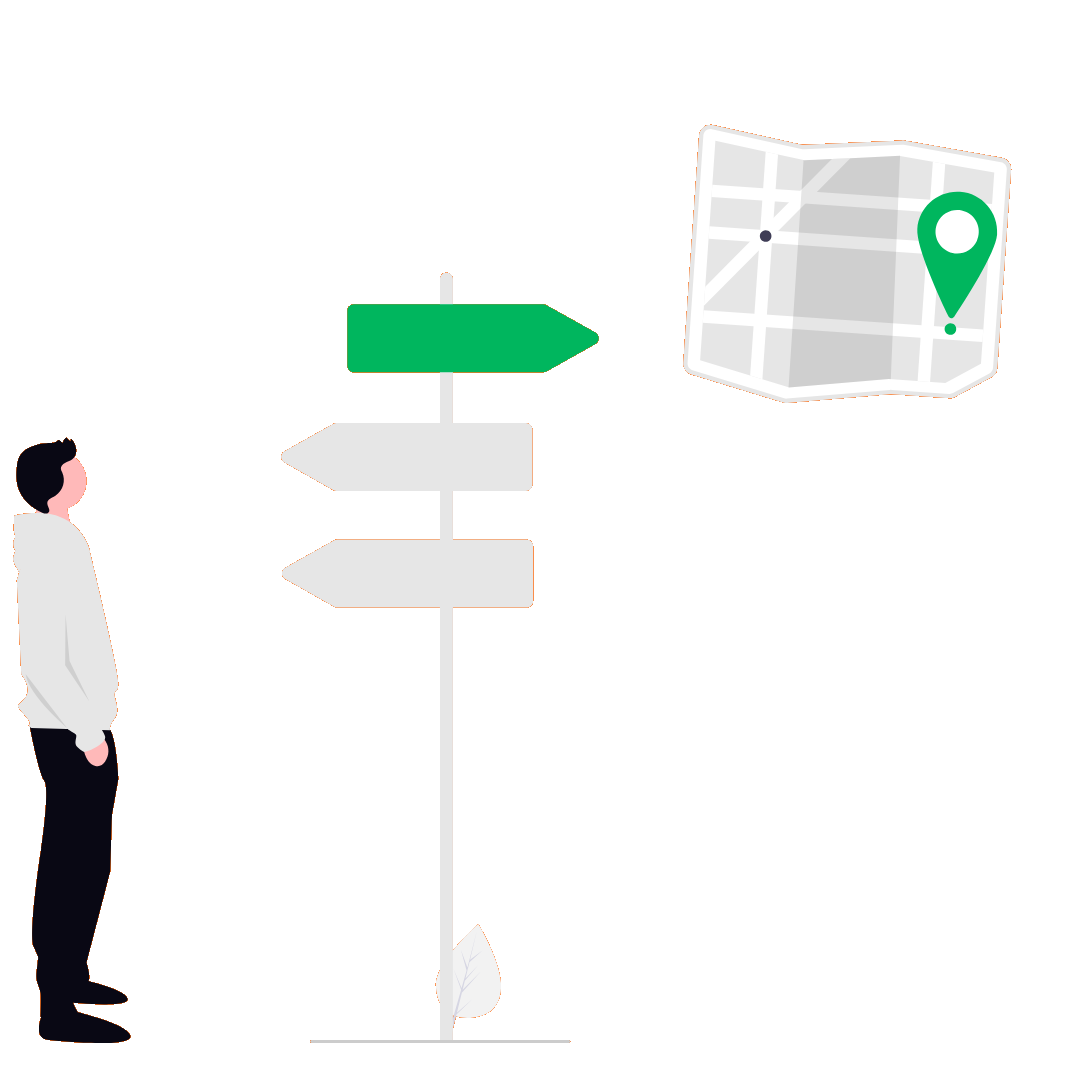
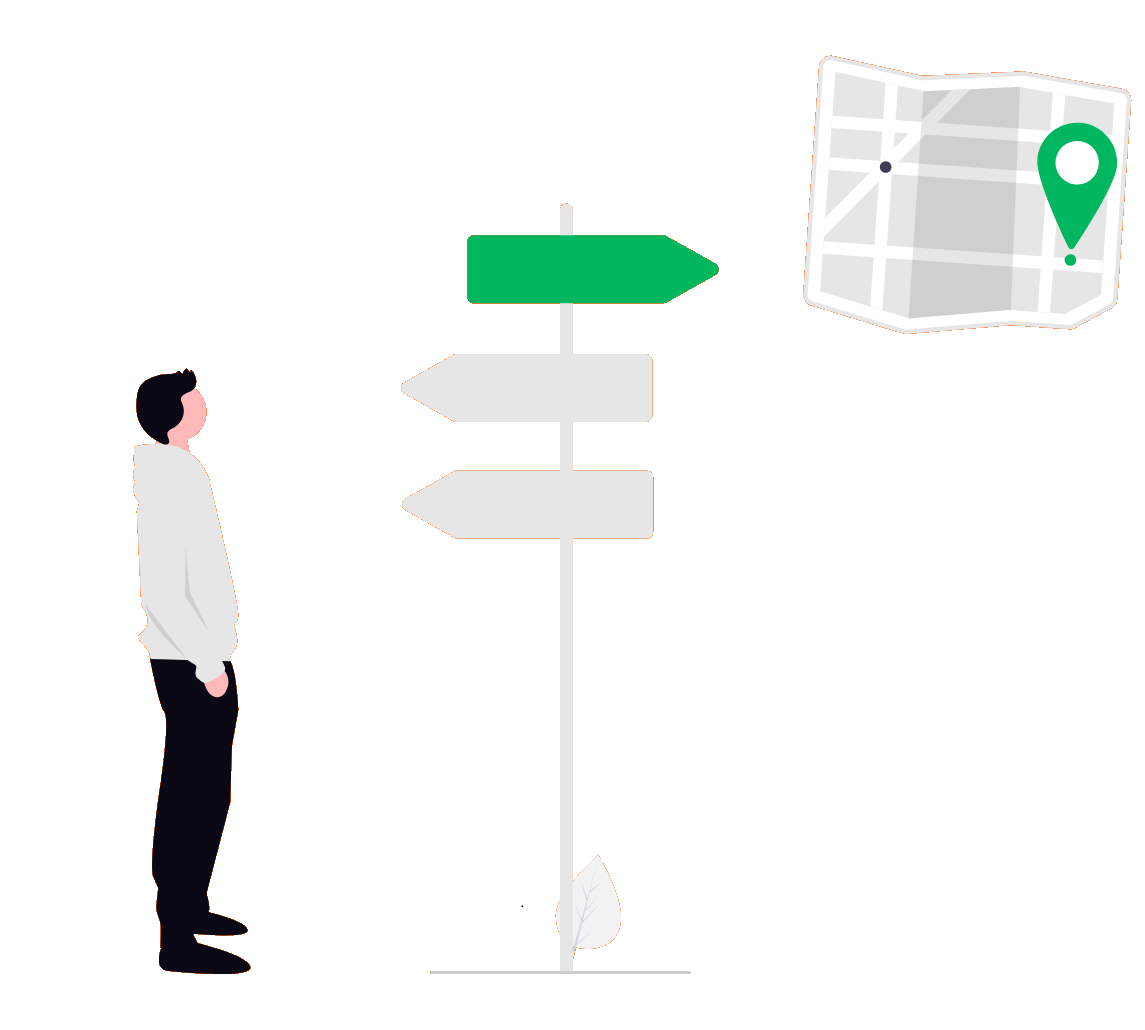
mari changes 16.12

Changed region(s): [[0.2444, 0.0621, 1.0, 0.9631], [0.0, 0.3417, 0.2139, 0.9631]]

diff --git a/src/pages/JuniorDetails.tsx b/src/pages/JuniorDetails.tsx
@@ -55,8 +55,8 @@ const sectionConfigs: SectionConfig[] = [
       "Write basic communication (emails, chats, tickets).",
     ],
     backgroundClass: "bg-green-500",
-    titleClass: "text-white",
-    listClass: "text-white",
+    titleClass: "text-black",
+    listClass: "text-black",
     borderClass: "border-b md:border-b-0 md:border-r border-slate-200",
     imageSrc: englishImage,
     imageClass: "top-0 right-0 h-full w-1/2 object-contain",
@@ -87,8 +87,9 @@ const sectionConfigs: SectionConfig[] = [
     listClass: "text-blue-500",
     borderClass: "border-t md:border-t-0 md:border-r border-slate-200",
     imageSrc: experienceImage,
-    imageClass: "top-0 left-0 h-full w-1/2 object-contain",
+    imageClass: "top-0 left-10 h-full w-1/2 object-contain",
     contentClass: "ml-auto w-1/2",
+    itemsWrapperClass: "justify-center mt-0",
   },
   {
     title: "TIPS TO GET THERE",
@@ -103,7 +104,8 @@ const sectionConfigs: SectionConfig[] = [
     borderClass: "border-t border-slate-200",
     imageSrc: tipsImage,
     imageClass: "top-0 left-0 h-full w-1/2 object-contain",
-    contentClass: "ml-auto w-1/2",
+    contentClass: "ml-auto w-1/2 pl-10",
+    itemsWrapperClass: "justify-center mt-0",
   },
 ];
 
@@ -134,10 +136,10 @@ const HeroSection = ({ backgroundImage, content }: HeroSectionProps) => (
     <div className="flex flex-col lg:flex-row items-center lg:items-start justify-between gap-10 relative z-10 w-full text-white drop-shadow">
       <div className="max-w-xl">
         <div className="flex flex-wrap items-baseline gap-3">
-          <p className="text-3xl lg:text-4xl font-light">{content.subtitle}</p>
+          <p className="text-3xl lg:text-4xl font-bold">{content.subtitle}</p>
           <h1 className="text-7xl lg:text-8xl font-black text-emerald-200">{content.highlight}</h1>
         </div>
-        <p className="mt-3 text-3xl lg:text-4xl font-semibold">{content.tagline}</p>
+        <p className="mt-3 text-3xl lg:text-4xl font-bold">{content.tagline}</p>
       </div>
     </div>
   </section>

diff --git a/src/components/sectionCard.component.tsx b/src/components/sectionCard.component.tsx
@@ -8,6 +8,7 @@ export type SectionConfig = {
   imageSrc: string;
   imageClass?: string;
   contentClass?: string;
+  itemsWrapperClass?: string;
 };
 
 type SectionCardProps = {
@@ -29,6 +30,7 @@ const SectionCard = ({ config, cardBaseClass }: SectionCardProps) => {
           items={config.items}
           listClass={config.listClass}
           contentClass={config.contentClass}
+          wrapperClass={config.itemsWrapperClass}
         />
       </div>
     </section>
@@ -72,18 +74,21 @@ type CardItemsProps = {
   items: string[];
   listClass?: string;
   contentClass?: string;
+  wrapperClass?: string;
 };
 
-const CardItems = ({ items, listClass, contentClass }: CardItemsProps) => (
-  <div className={`mt-8 ${contentClass ?? ""}`}>
-    <ul className={`space-y-5 text-2xl lg:text-3xl leading-relaxed list-none ${listClass ?? ""}`}>
-      {items.map((item, index) => (
-        <li key={index} className="flex gap-3">
-          <span className="text-3xl leading-tight">•</span>
-          <span>{item}</span>
-        </li>
-      ))}
-    </ul>
+const CardItems = ({ items, listClass, contentClass, wrapperClass }: CardItemsProps) => (
+  <div className={`mt-8 flex-1 flex flex-col ${wrapperClass ?? ""}`}>
+    <div className={`${contentClass ?? ""}`}>
+      <ul className={`space-y-5 text-2xl lg:text-3xl leading-relaxed list-none font-bold ${listClass ?? ""}`}>
+        {items.map((item, index) => (
+          <li key={index} className="flex gap-3">
+            <span className="text-3xl leading-tight">•</span>
+            <span>{item}</span>
+          </li>
+        ))}
+      </ul>
+    </div>
   </div>
 );
 

diff --git a/src/components/stepBubble.component.tsx b/src/components/stepBubble.component.tsx
@@ -9,6 +9,7 @@ export default function StepBubble({ step, reverse = false }: StepBubbleProps) {
   const wrapperProps = clickable ? { href: detailHref } : {}
   const isReverse = Boolean(reverse)
   const dotDirection = isReverse ? "right" : "left"
+  const textAlignment = isReverse ? "text-left" : "text-right"
   return (
     <Wrapper
       {...wrapperProps}
@@ -16,7 +17,7 @@ export default function StepBubble({ step, reverse = false }: StepBubbleProps) {
       aria-label={clickable ? `View details for ${step.level}` : undefined}
     >
       <div className={`relative flex items-center mb-16 gap-36 ${isReverse ? "flex-row-reverse" : "flex-row"}`}>
-        <div className="flex-1 max-w-xl text-left">
+        <div className={`flex-1 max-w-xl ${textAlignment}`}>
           <p className={`font-extrabold text-2xl text-gray-900 tracking-tight text-outline-white ${clickable ? "group-hover:underline" : ""}`}>{step.level}</p>
           <p className="mt-3 text-lg text-gray-700 leading-relaxed text-outline-white">{step.description}</p>
         </div>

diff --git a/src/components/header.component.tsx b/src/components/header.component.tsx
@@ -2,10 +2,10 @@ export default function Header() {
     return (
         <header className="bg-cyan-400 pt-16 pb-8 shadow-lg border-b-4 border-black">
             <div className="mx-auto max-w-5xl px-4 text-center">
-                <h1 className="text-6xl font-black text-gray-900 tracking-tighter leading-none [text-shadow:_2px_2px_0_rgb(255_255_255_/_40%)]">
+                <h1 className="text-[7.5rem] font-black text-gray-900 tracking-tighter leading-none [text-shadow:_2px_2px_0_rgb(255_255_255_/_40%)]">
                     CARRER
                 </h1>
-                <p className="text-xl font-serif font-semibold text-gray-800 italic mt-2">
+                <p className="text-6xl font-serif font-semibold text-gray-800 italic mt-2">
                     Planning
                 </p>
             </div>

diff --git a/src/App.tsx b/src/App.tsx
@@ -20,7 +20,7 @@ const careerData: CareerStep[] = [
     level: "JUNIOR I & II",
     description: "You're no longer just watching — now you're building! You handle tasks, play with your stack, and learn something new every single day!",
     color: "blue-500",
-    detailUrl: "/details-junior",
+    detailUrl: "/details-junior-2",
     details: {
       skills: ['React/Angular/Vue', 'REST APIs', 'Unit Testing', 'Basic Deployment'],
       goals: ['Lead a small feature', 'Mentor an Intern']

diff --git a/src/main.tsx b/src/main.tsx
@@ -7,7 +7,7 @@ import DefaultDetails from './pages/DefaultDetails.tsx'
 
 const path = window.location.pathname
 const pages: Record<string, ComponentType> = {
-  '/details-junior': JuniorDetails,
+  '/details-junior-2': JuniorDetails,
   '/details': DefaultDetails,
 }
 const Page = pages[path] ?? App
